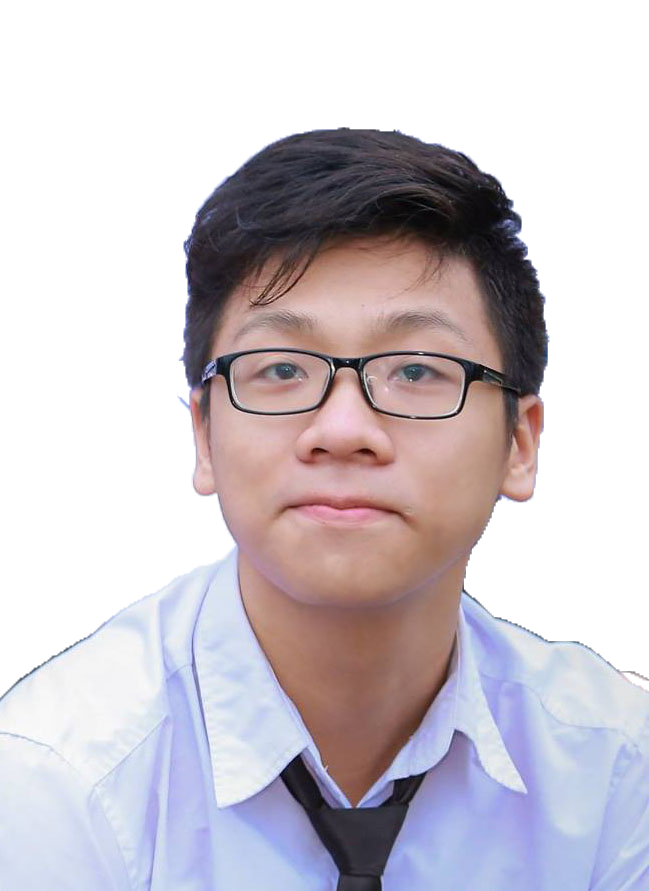
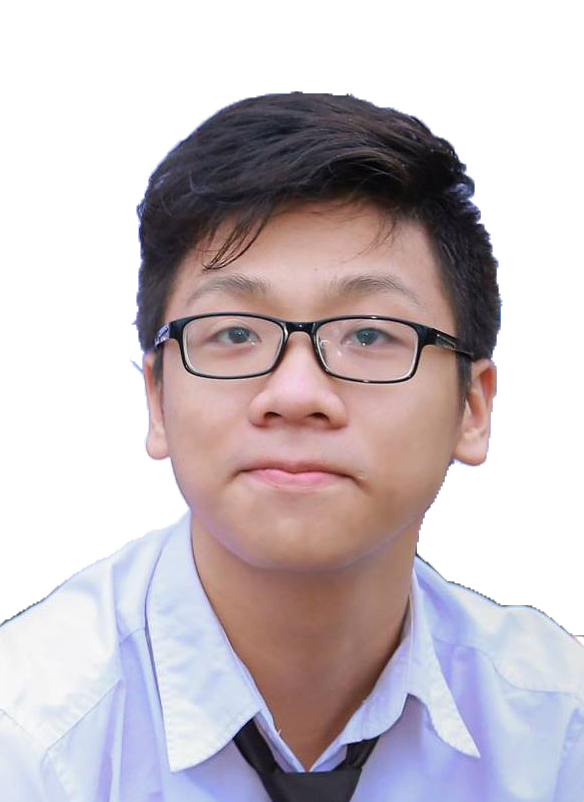
Change portrait image and Projects background

diff --git a/index.html b/index.html
@@ -130,15 +130,15 @@
                   <img class="portrait-img img-fluid" src="assets/portrait.png" alt="portrait">
                 </div>
                 <div class="col-sm-6" style="margin:auto">
-                  <h3>Hey there!</h3>
+                  <h1>Hey there!</h1>
                   <p>
-                    As you probably know, my name is <strong>VINH NGUYEN</strong>. 
+                    My name is <strong>VINH NGUYEN</strong>. 
                     I am going to be a student in <strong>École Polytechnique, France</strong> in September, 2019.
                   </p>
                   <p>
-                    I would describe myself as <strong>a CS enthusiast</strong>. In high school, 
-                    I was always actively involved in competitive programming competitions, both nationally and regionally. 
-                    Recently, I've been interested in web developing, and this is the first responsive website I've made.
+                    I am described as <strong>a CS enthusiast</strong>. In high school, 
+                    I was actively involved in several competitive programming competitions, both nationally and regionally. 
+                    Recently, I've been interested in web developing, and this is the first responsive website I've implemented.
                   </p>
                 </div>
               </div>
@@ -148,7 +148,7 @@
     </div>
 
     <!--Projects-->
-    <div vs-anchor="projects" class="mainview">
+    <div vs-anchor="projects" class="mainview projects">
       <div class="vs-center-wrap">
         <div class="vs-center">Projects</div>
       </div>

diff --git a/css/about.css b/css/about.css
@@ -1,6 +1,11 @@
 /* About */
 .portrait-img {
+  margin-top: 20px;
   opacity: 0.3;
   transition: 0.5s ease;
   backface-visibility: hidden;
+  zoom: 50%;
+  border: 15px solid rgb(75, 72, 72);
+  border-radius: 10px;
+  background-color: rgb(237, 238, 238);
 }

diff --git a/js/viewScroller.js b/js/viewScroller.js
@@ -3,6 +3,6 @@ $(document).ready(function() {
   $('.mainbag').viewScroller({
     useScrollbar: true,
     changeWhenAnim: false,
-    timeToFit: 2000
+    timeToFit: 1e9
   });
 });

diff --git a/css/index.css b/css/index.css
@@ -3,6 +3,7 @@
 @import 'menu.css';
 @import 'home.css';
 @import 'about.css';
+@import 'projects.css';
 
 html,
 body {

diff --git a/css/projects.css b/css/projects.css
@@ -1,0 +1,5 @@
+/* Projects */
+.projects {
+  color: rgb(226, 223, 223);
+  background-color: rgb(29, 26, 26);
+}
